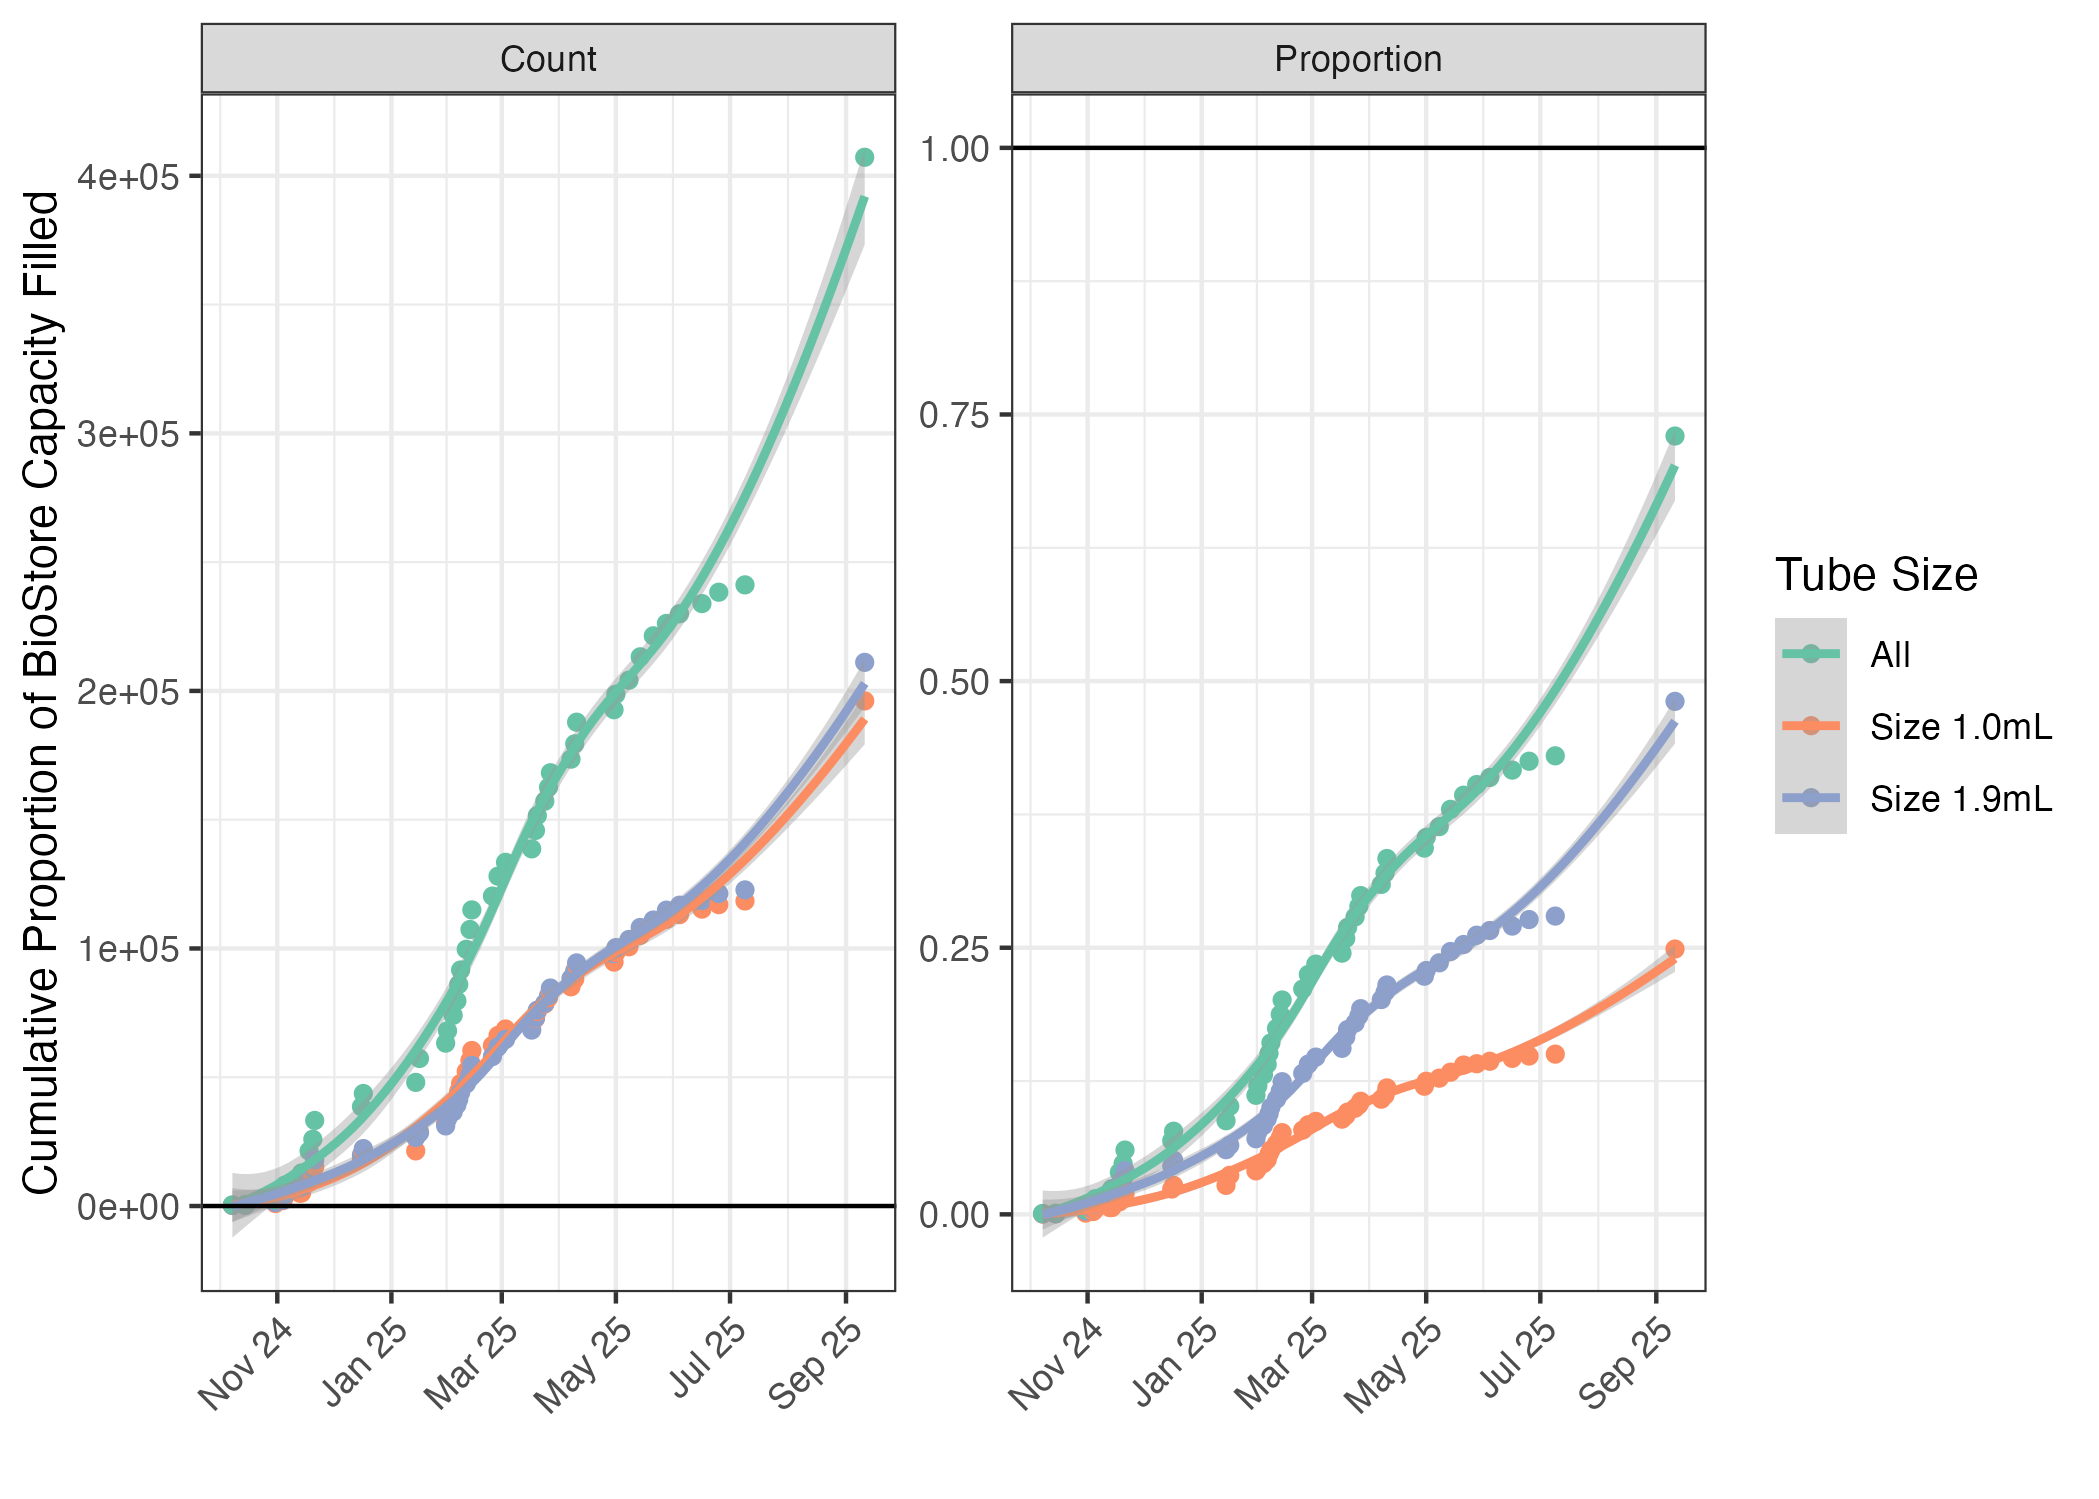
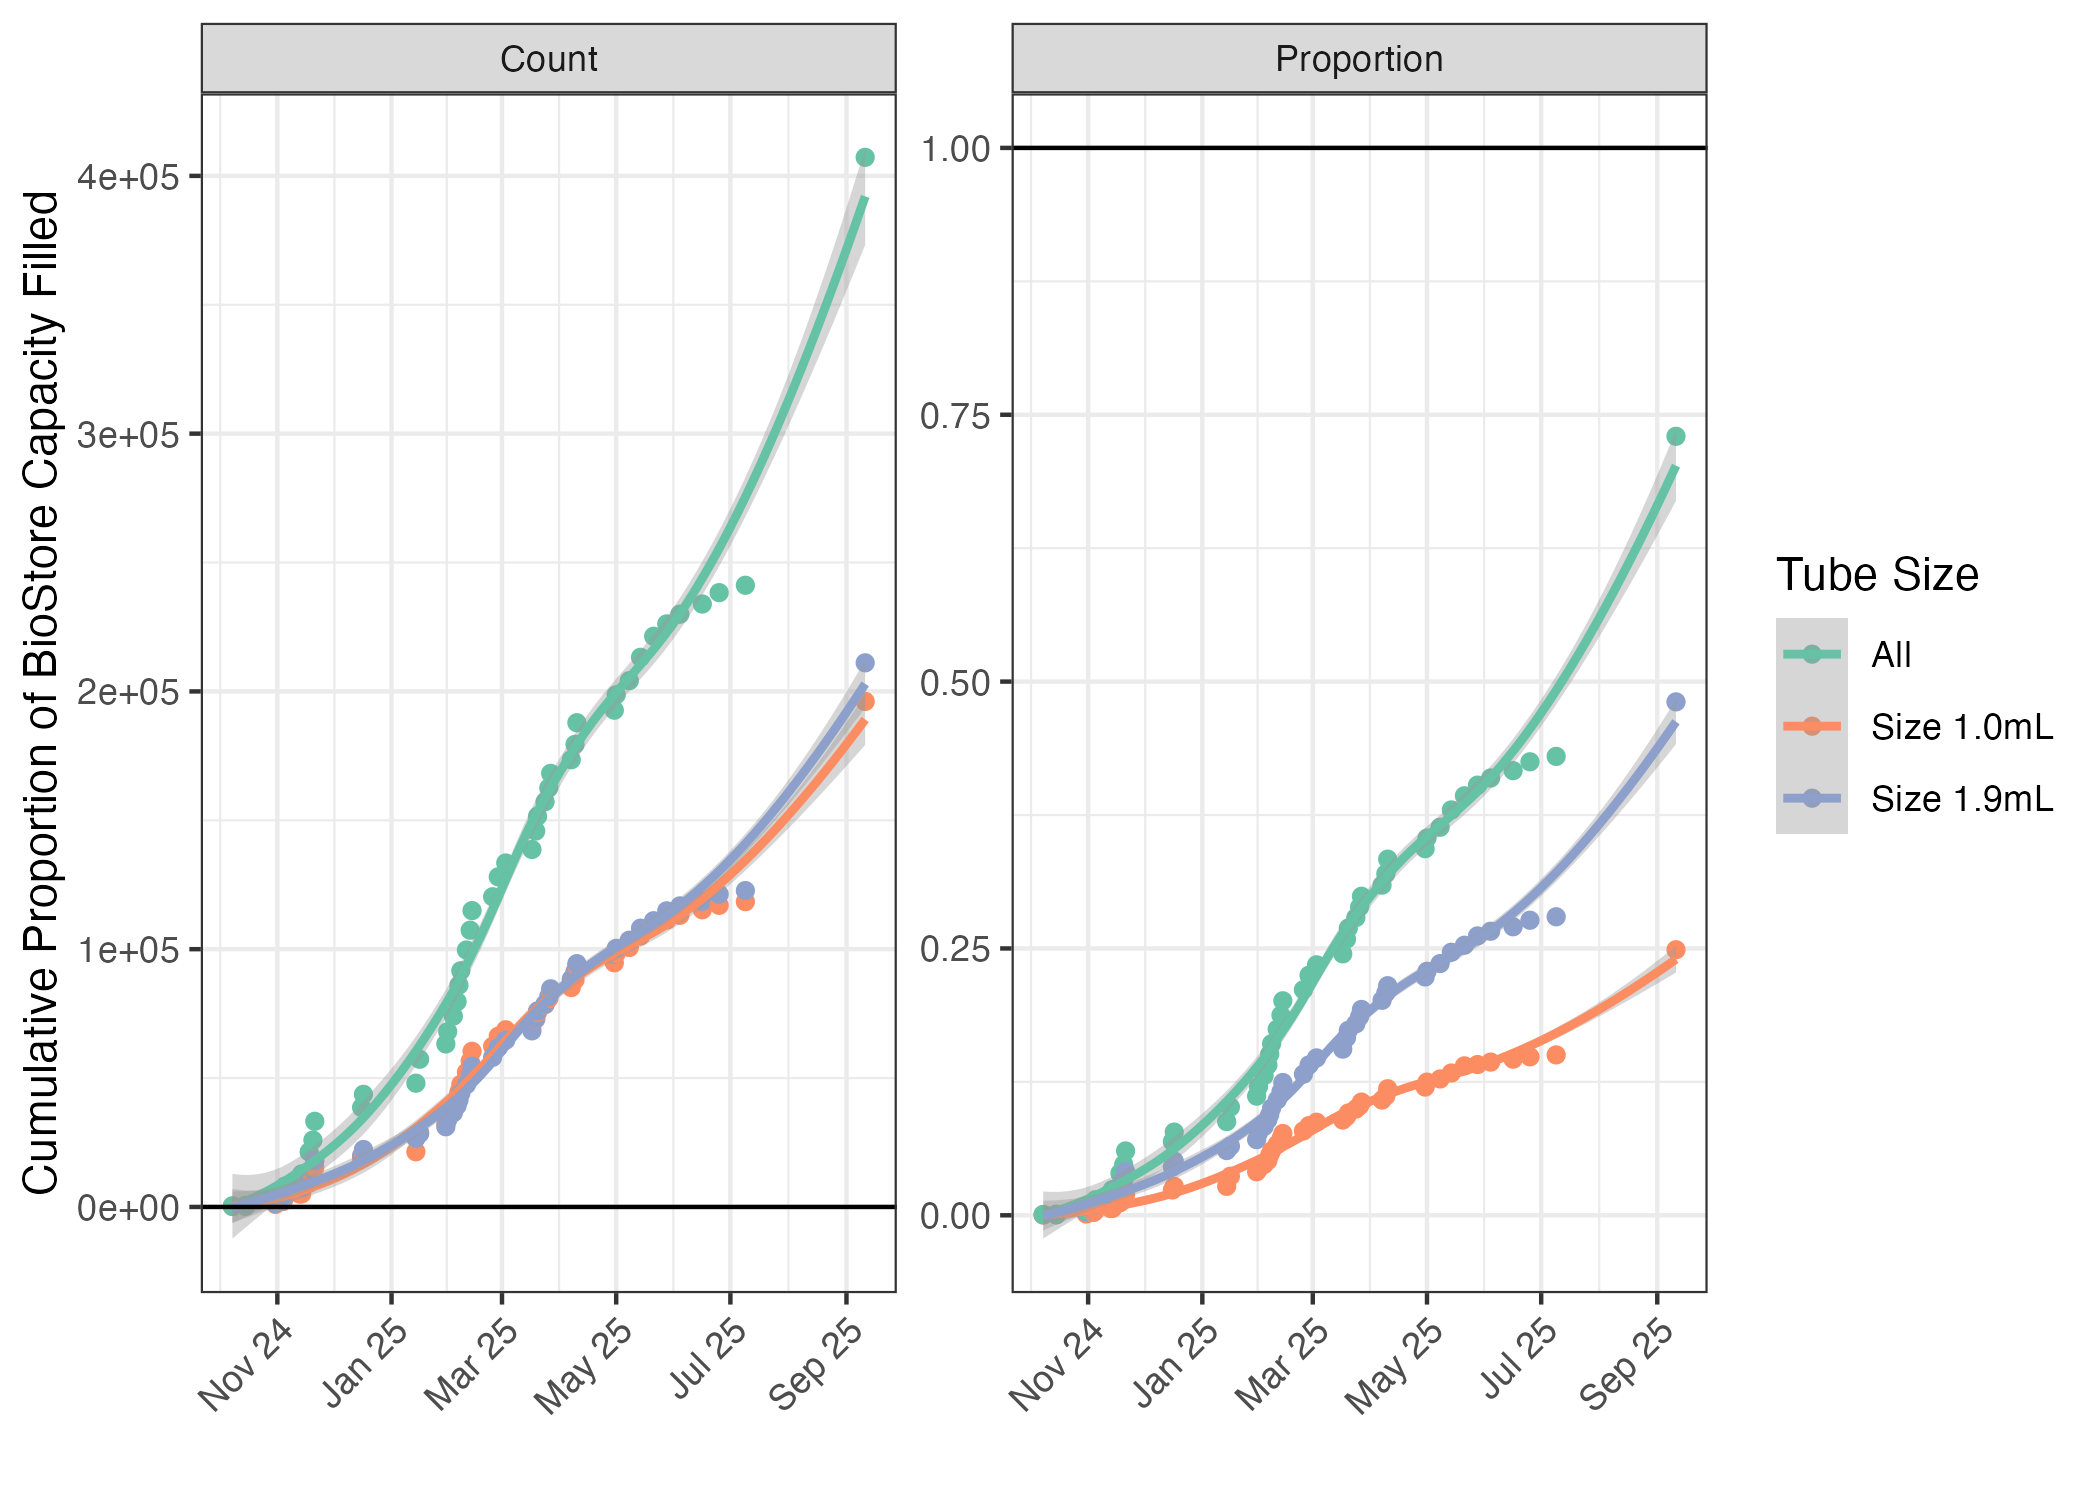
plots

diff --git a/README.md b/README.md
@@ -115,7 +115,7 @@ anyone to use, but I will still keep the source code transparent on
 GitHub.
 
 ``` r
-library(biostoreCapacity)
+suppressWarnings(library(biostoreCapacity))
 #> Registered S3 method overwritten by 'quantmod':
 #>   method            from
 #>   as.zoo.data.frame zoo
@@ -129,7 +129,6 @@ This includes “pending” tubes, which are tubes that are still at the
 sites but will be shipped here eventually and should be counted towards
 the BioStore’s total inventory.
 
-    #> Saving 7 x 5 in image
     #> `geom_smooth()` using method = 'loess' and formula = 'y ~ x'
 
 <figure>
